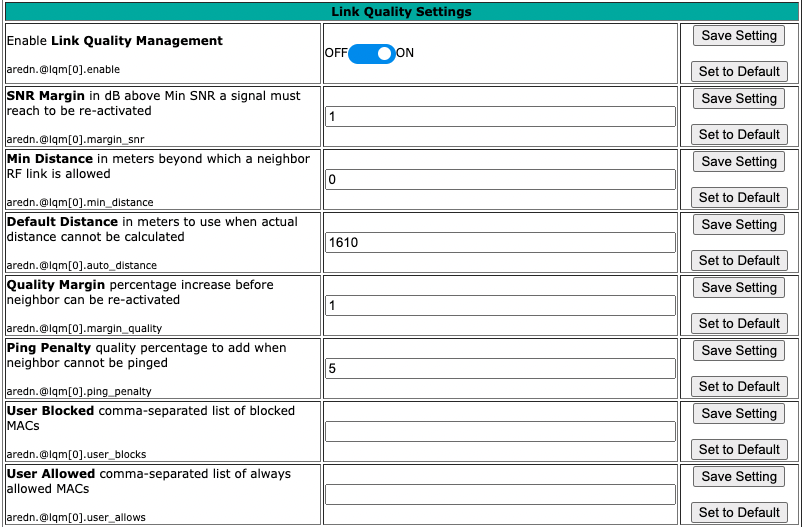
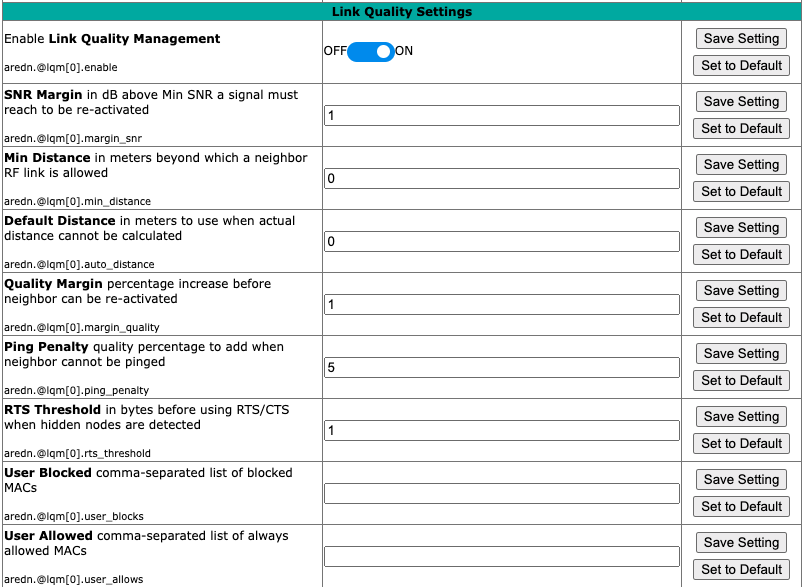
add RTS Threshold to AdvConfig page

Changed region(s): [[0.0, 0.0, 1.0, 1.0]]

diff --git a/arednGettingStarted/advanced_config.rst b/arednGettingStarted/advanced_config.rst
@@ -121,7 +121,7 @@ By default each node runs a :abbr:`DHCP (Dynamic Host Control Protocol)` server 
 
 When you connect a device to your node's LAN, not only should it have an IP address in the LAN IP address range, but it is best practice for LAN devices to obtain their DNS Server information *automatically* from the node. Be aware that if a LAN device does not use the DNS Server entry provided by the node to which it is connected, then that device will be unable to resolve hostnames on the mesh network. Also, hard-coding a device's DNS Server entry with the mesh node's IP address could result in unexpected failures if that device is moved to another mesh node or network.
 
-If you enabled the **LAN Access Point** feature mentioned previously, edit the access point's SSID, channel, encryption method, and password. Select an AP channel that is within the range supported by your WiFi client devices. Click *Save Changes* to write your information to the node's configuration, and a node reboot will also be required. Now wireless devices can connect to your node's LAN wirelessly, and their DHCP IP address will be assigned by the node's LAN DHCP server. If your node hardware has more than one unused radio, for example the *Mikrotik hAP ac* family with both 2.4 and 5.8 GHz radios in a single unit, the *LAN Access Point* section will always be visible whether or not your *Mesh RF* interface is enabled. 
+If you enabled the **LAN Access Point** feature mentioned previously, edit the access point's SSID, channel, encryption method, and password. Select an AP channel that is within the range supported by your WiFi client devices. Click *Save Changes* to write your information to the node's configuration, and a node reboot will also be required. Now wireless devices can connect to your node's LAN wirelessly, and their DHCP IP address will be assigned by the node's LAN DHCP server. If your node hardware has more than one unused radio, for example the *Mikrotik hAP ac* family with both 2.4 and 5.8 GHz radios in a single unit, the *LAN Access Point* section will always be visible whether or not your *Mesh RF* interface is enabled.
 
 WAN Column
 ^^^^^^^^^^
@@ -426,6 +426,9 @@ Quality Margin
 
 Ping Penalty
   The Link Quality penalty that is imposed on calculations if a remote node does not respond to a ping request. The default value is 5 percent. This setting may be helpful for cases when a link would otherwise be marked *active* but the remote node is currently unreachable on the network.
+
+RTS Threshold
+  The packet size in bytes before using RTS/CTS when hidden nodes are detected.
 
 User Blocked Nodes
   A comma-separated list of MAC addresses which you desire to block from your neighbors list. This feature allows you to "blacklist" specific nodes. RF nodes are blocked by their Wifi MAC address, while DtD nodes are blocked by their LAN MAC address. MAC addresses are typically entered as uppercase characters with the hex pairs separated by colons.
